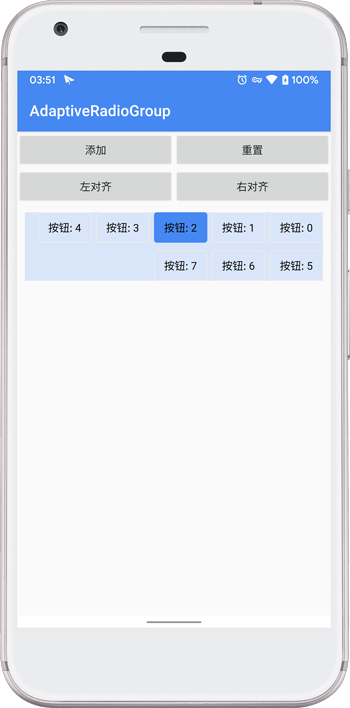
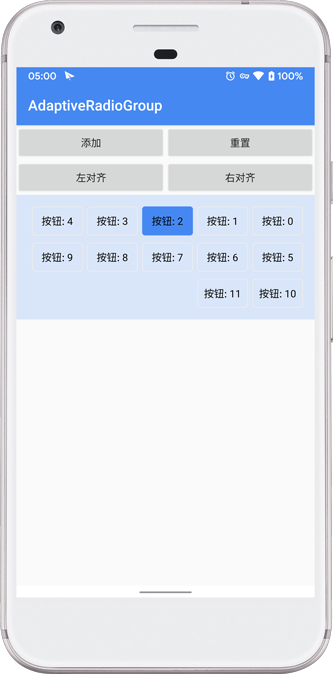
fix padding

diff --git a/app/src/main/java/com/sscience/adaptiveradiogroup/AdaptiveRadioGroup.kt b/app/src/main/java/com/sscience/adaptiveradiogroup/AdaptiveRadioGroup.kt
@@ -47,7 +47,7 @@ class AdaptiveRadioGroup : RadioGroup {
 
     override fun onMeasure(widthMeasureSpec: Int, heightMeasureSpec: Int) {
         //获取最大宽度
-        val maxWidth = View.MeasureSpec.getSize(widthMeasureSpec) - paddingStart - paddingEnd
+        val maxWidth = MeasureSpec.getSize(widthMeasureSpec)
         //获取Group中的Child数量
         val childCount = childCount
         //设置Group的左边距，下面也会使用x计算每行所占的宽度
@@ -93,9 +93,9 @@ class AdaptiveRadioGroup : RadioGroup {
 
     override fun onLayout(changed: Boolean, l: Int, t: Int, r: Int, b: Int) {
         val childCount = childCount
-        val maxWidth = r - l - paddingStart - paddingEnd
+        val maxWidth = r - l
         var x = 0
-        var y = 0
+        var y: Int
         var row = 0
         val gravityStart = gravityDirection == 0
         val paddingVertical = if (gravityStart) paddingTop else paddingBottom
@@ -116,8 +116,8 @@ class AdaptiveRadioGroup : RadioGroup {
                     x = width + paddingHorizontal
                     y = paddingVertical + row * height + (height + row * marginHorizontal.toInt())
                 }
-                val left = if (gravityStart) x - width else maxWidth - x + paddingStart + paddingEnd
-                val right = if (gravityStart) x else maxWidth - x + width + paddingStart + paddingEnd
+                val left = if (gravityStart) x - width else maxWidth - x
+                val right = if (gravityStart) x else maxWidth - x + width
                 child.layout(left, y - height, right, y)
             }
         }
